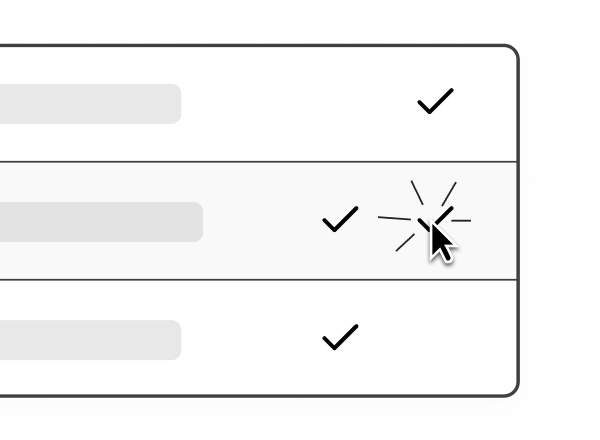
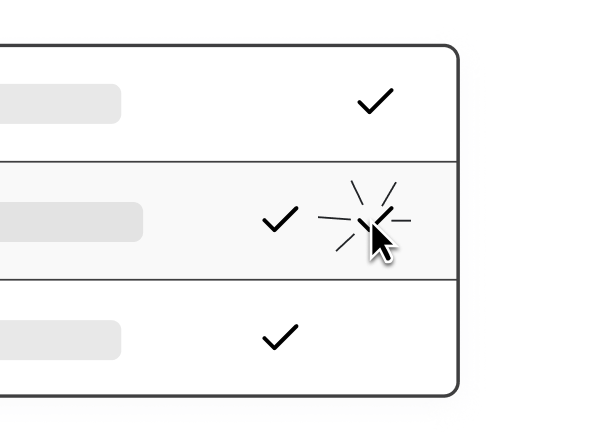
Add two new tips to tips modal: Status bearbeiten and Sortierung verwenden

diff --git a/src/pages/easybill/1.2/ShippingPage.tsx b/src/pages/easybill/1.2/ShippingPage.tsx
@@ -97,6 +97,8 @@ import illuSendung4 from "@/assets/Illus/illu-sendung-erstellen-4.png";
 import illuTipps1 from "@/assets/Illus/illu-tipps-1.png";
 import illuTipps2 from "@/assets/Illus/illu-tipps-2.png";
 import illuTipps3 from "@/assets/Illus/illu-tipps-3.png";
+import illuTipps4 from "@/assets/Illus/illu-tipps-4.png";
+import illuTipps5 from "@/assets/Illus/illu-tipps-5.png";
 import statusTrue from "@/assets/svgs/status-true.svg";
 import statusFalse from "@/assets/svgs/status-false.svg";
 import bestellungenCSV from "@/assets/tables/bestellungen.csv?raw";
@@ -2415,6 +2417,16 @@ function ShippingPage() {
       topline: "Tagestipp",
       headline: "Pfeiltasten verwenden",
       bodyText: "Verwenden Sie die linke und rechte Pfeiltaste, um zwischen den Detailansichten der sichtbaren Einträge zu wechseln."
+    },
+    {
+      topline: "Tagestipp",
+      headline: "Status bearbeiten",
+      bodyText: "Der Status kann in den Checklisten pro Eintrag manuell angepasst werden."
+    },
+    {
+      topline: "Tagestipp",
+      headline: "Sortierung verwenden",
+      bodyText: "Durch Klicken auf einen Spaltenheader wird die Sortierung der Einträge geändert."
     }
   ];
   const [addressMatchStep, setAddressMatchStep] = React.useState(-1); // -1 = Progress, 0 = Initial, 1 = Adressdaten, 2 = Versandprofile, 3 = Sendungen erstellt
@@ -7120,7 +7132,7 @@ function ShippingPage() {
             {/* Image */}
             <div className="w-[300px] h-[220px] rounded-t-lg flex items-center justify-center overflow-hidden mx-auto" style={{ backgroundColor: '#D6F270' }}>
               <img 
-                src={currentTipIndex === 0 ? illuTipps1 : currentTipIndex === 1 ? illuTipps2 : illuTipps3}
+                src={currentTipIndex === 0 ? illuTipps1 : currentTipIndex === 1 ? illuTipps2 : currentTipIndex === 2 ? illuTipps3 : currentTipIndex === 3 ? illuTipps4 : illuTipps5}
                 alt={`Tagestipp ${currentTipIndex + 1}`}
                 className="w-full h-full object-contain"
               />
